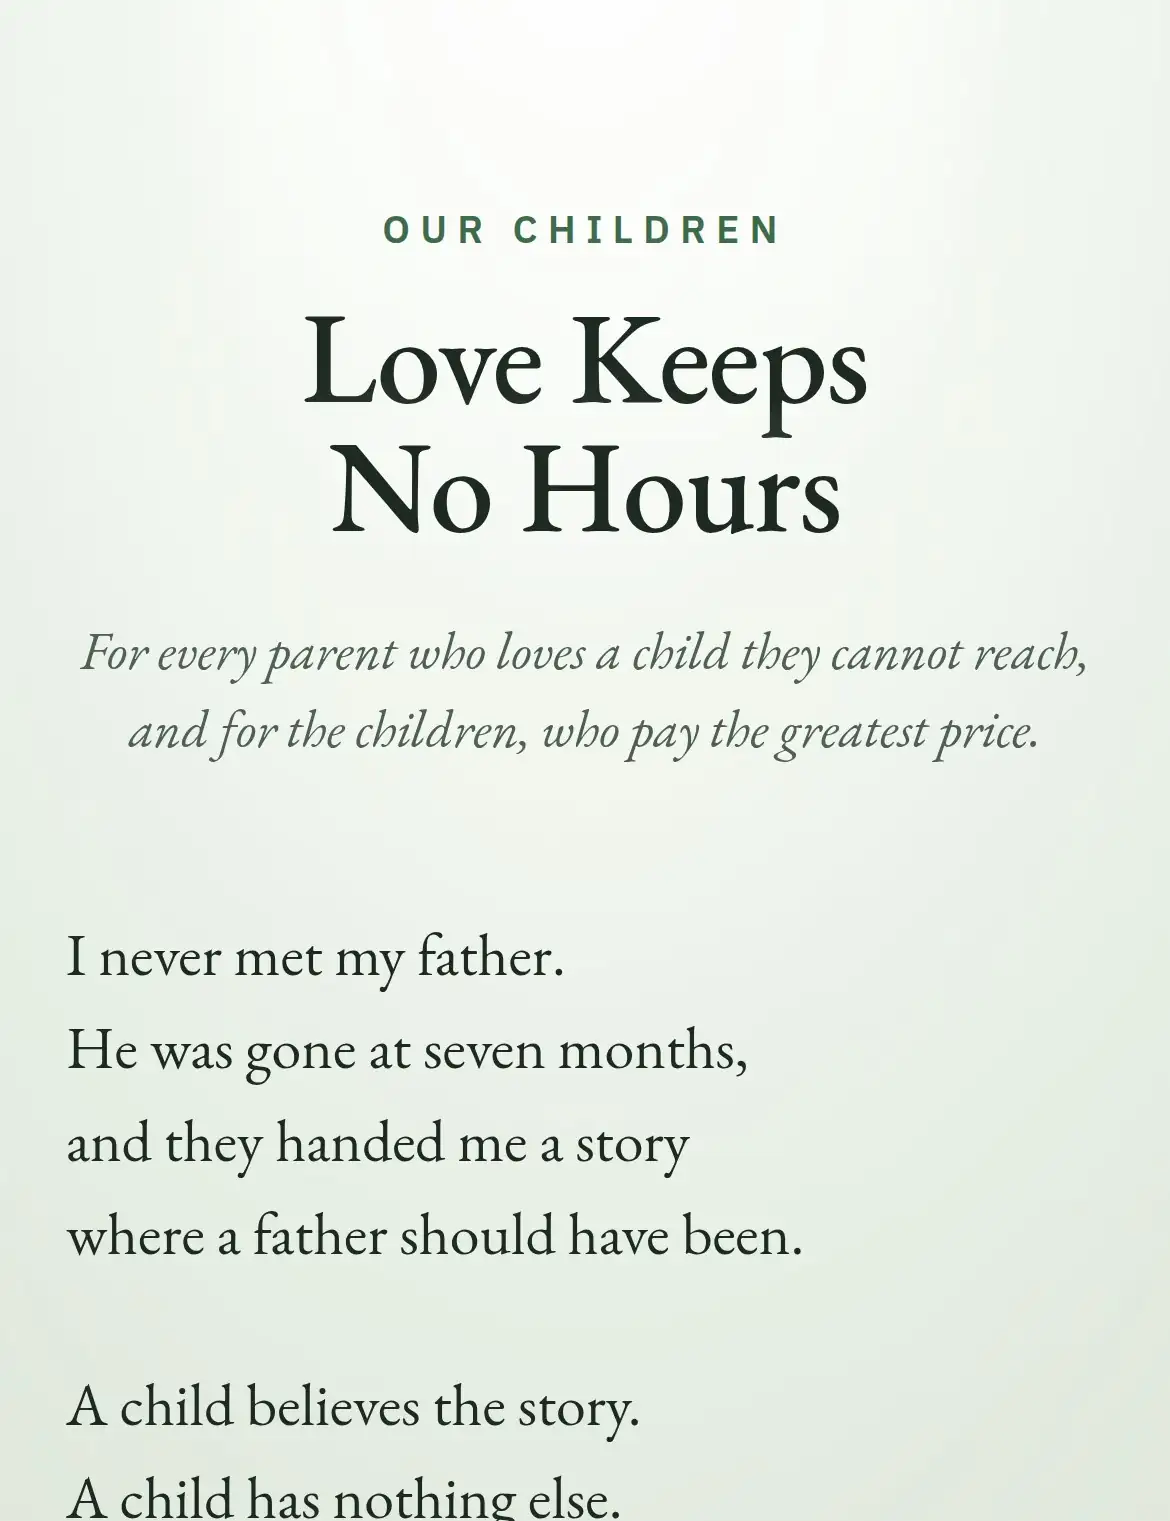
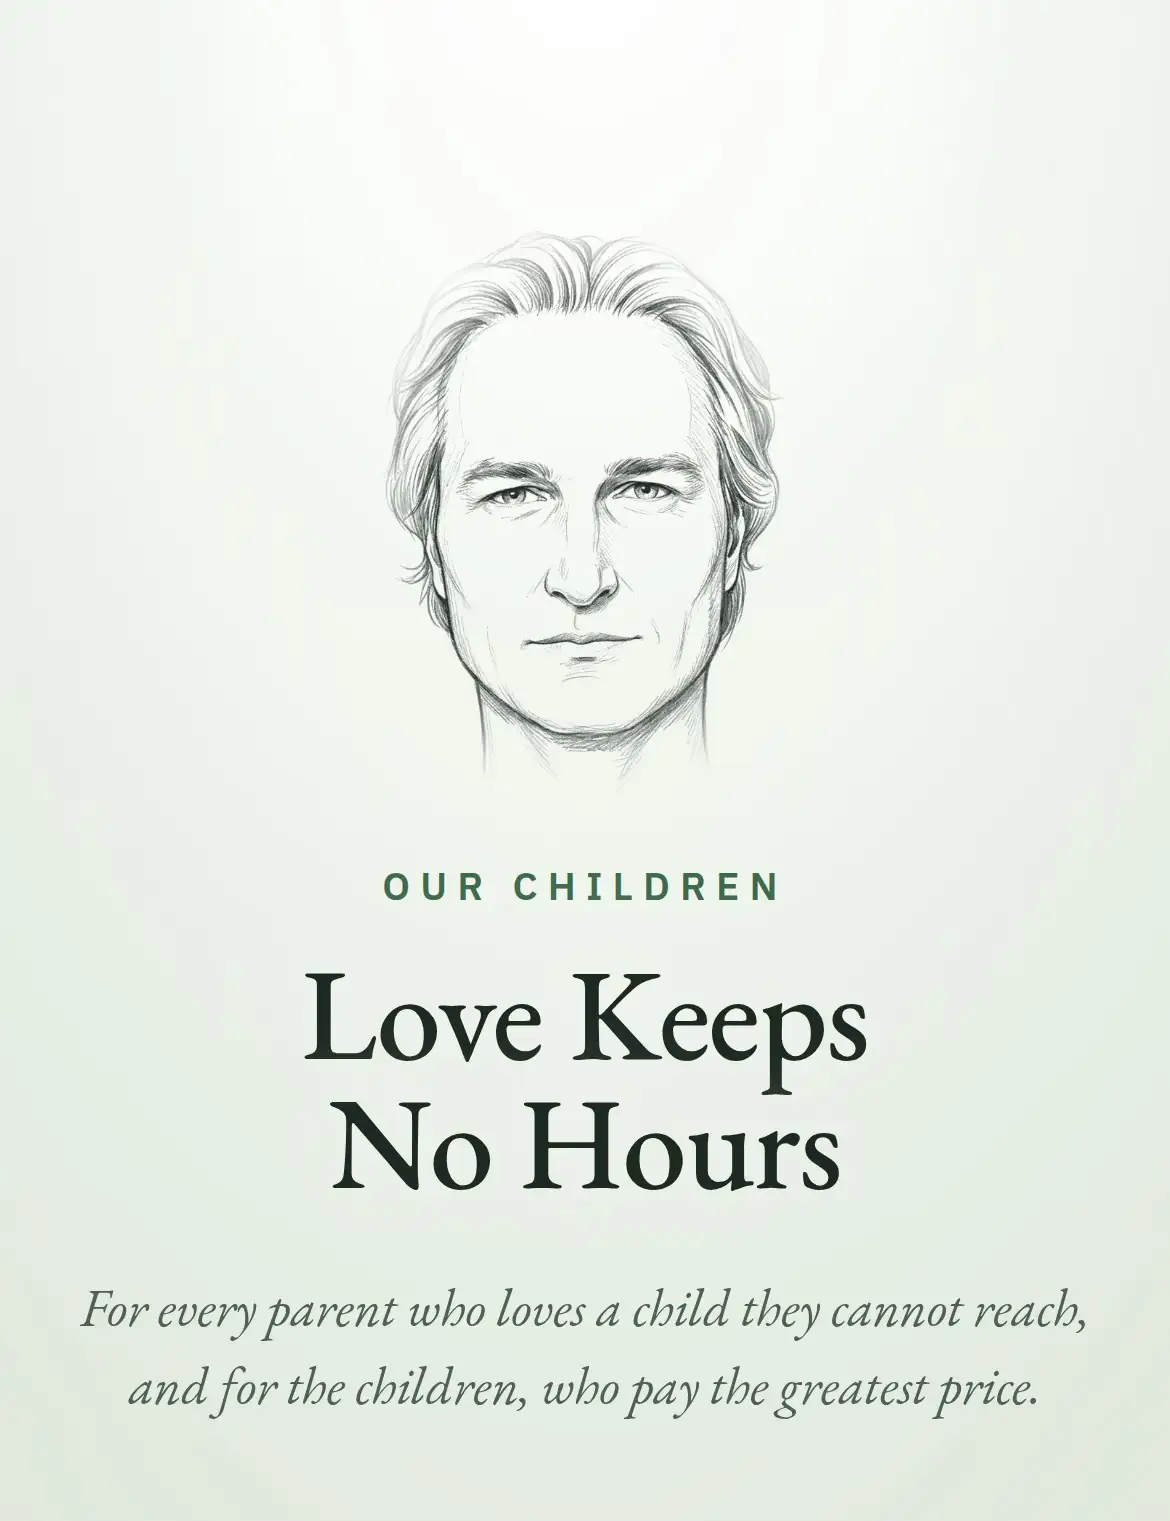
halseyminor.com: counts as of 2026-10-26

diff --git a/our-children/index.html b/our-children/index.html
@@ -69,6 +69,15 @@ a { color: var(--leaf); text-underline-offset: 3px; text-decoration-thickness: 1
   .poem > :nth-child(n+5) { animation-delay: .85s }
 }
 @keyframes oc-in { from { opacity: 0; transform: translateY(8px) } }
+.sign { width: clamp(180px, 20vw, 230px); margin: .4em 0 0 -.2em }
+.sign svg { display: block; width: 100%; height: auto; overflow: visible }
+.sign .sp { fill: none; stroke: #fff; stroke-width: 14; stroke-linecap: butt; stroke-linejoin: round; stroke-dasharray: 1 1; stroke-dashoffset: 1 }
+.sign.go .sp { stroke-dashoffset: 0; transition: stroke-dashoffset var(--t) cubic-bezier(.45, .05, .55, .95) var(--d) }
+.sign.wait image { mask: url(#sig-m) }
+.sign.done image { mask: none }
+.poem .face { width: clamp(150px, 17vw, 230px); margin: 0 auto clamp(12px, 2.2vh, 20px) }
+.poem .face img { display: block; width: 100%; height: auto;
+  -webkit-mask-image: radial-gradient(closest-side, #000 70%, transparent 100%); mask-image: radial-gradient(closest-side, #000 70%, transparent 100%) }
 </style>
 </head>
 <body>
@@ -79,6 +88,7 @@ a { color: var(--leaf); text-underline-offset: 3px; text-decoration-thickness: 1
 </nav>
 <main class="oc">
   <article class="poem" data-who="halsey" aria-labelledby="poem-h">
+    <div class="face"><img src="/our-children/halsey.webp" srcset="/our-children/halsey-sm.webp 320w, /our-children/halsey.webp 620w" sizes="(max-width: 599px) 150px, 230px" width="620" height="840" alt="Halsey Minor, drawn in pencil" decoding="async" fetchpriority="high"></div>
     <p class="kick">Our Children</p>
     <h1 id="poem-h">Love Keeps No Hours</h1>
     <p class="ded"><span>For every parent who loves a child they cannot reach,</span>
@@ -167,9 +177,23 @@ a { color: var(--leaf); text-underline-offset: 3px; text-decoration-thickness: 1
     <p class="st"><span>I am here.</span>
       <span>I am here.</span>
       <span>I am here.</span></p>
+    <div class="sign" role="img" aria-label="Halsey Minor’s signature" data-ms="2370"><svg viewBox="0 0 369 116" width="369" height="116" aria-hidden="true" focusable="false"><defs><mask id="sig-m" maskUnits="userSpaceOnUse" x="0" y="0" width="369" height="116"><path class="sp" pathLength="1" style="--d:0.00s;--t:0.23s" d="M10,95 L18,96 L19,97 L27,97 L37,94 L44,90 L49,89 L51,87 L54,82 L54,77 L61,57 L61,54 L63,50 L64,43 L68,31 L69,21 L71,18"/><path class="sp" pathLength="1" style="--d:0.29s;--t:0.12s" d="M14,97 L14,99 L28,110 L30,111 L37,111 L44,103 L48,95 L48,91 L49,90"/><path class="sp" pathLength="1" style="--d:0.47s;--t:0.33s" d="M54,83 L59,81 L64,76 L73,74 L75,72 L75,70 L83,60 L82,55 L96,28 L101,21 L110,12 L116,11 L117,13 L117,20 L111,33 L98,49 L86,60 L84,60 L85,59 L84,58"/><path class="sp" pathLength="1" style="--d:0.86s;--t:0.12s" d="M55,60 L58,46 L63,31 L66,24 L68,24"/><path class="sp" pathLength="1" style="--d:1.04s;--t:0.12s" d="M65,92 L68,89 L68,85 L71,80 L72,75"/><path class="sp" pathLength="1" style="--d:1.22s;--t:0.13s" d="M67,91 L68,92 L73,92 L78,94 L84,94 L85,93 L92,92 L116,81 L126,74"/><path class="sp" pathLength="1" style="--d:1.41s;--t:0.12s" d="M87,60 L97,50"/><path class="sp" pathLength="1" style="--d:1.59s;--t:0.12s" d="M162,68 L164,62 L171,53 L180,38 L182,37 L182,35 L186,34 L188,29"/><path class="sp" pathLength="1" style="--d:1.77s;--t:0.12s" d="M173,63 L174,61 L176,60 L176,54 L179,50 L185,36 L186,35 L186,36"/><path class="sp" pathLength="1" style="--d:1.95s;--t:0.36s" d="M177,57 L178,59 L180,59 L182,58 L187,52 L193,51 L197,55 L205,58 L222,58 L223,57 L230,57 L231,56 L242,55 L243,54 L257,52 L271,48 L275,48 L276,47 L280,47 L281,46 L285,46 L286,45 L290,45 L291,44 L295,44 L301,42 L306,42 L307,41 L313,41 L314,40 L320,40 L321,39 L329,39 L330,38 L340,38 L341,37 L355,37"/></mask></defs><image href="/our-children/signature.webp" x="0" y="0" width="369" height="116"/></svg></div>
     <p class="help">If you are a parent or a child who is hurting tonight, call or text <a href="tel:988">988</a>, any hour.</p>
   </article>
 </main>
+<script>
+(function () {
+  var s = document.querySelector('.sign');
+  if (!s || !('IntersectionObserver' in window) || (window.matchMedia && matchMedia('(prefers-reduced-motion: reduce)').matches)) return;
+  s.classList.add('wait');
+  var io = new IntersectionObserver(function (es) {
+    if (!es.some(function (e) { return e.isIntersecting; })) return;
+    io.disconnect(); s.classList.add('go');
+    setTimeout(function () { s.classList.add('done'); }, (+s.getAttribute('data-ms') || 2400) + 200);
+  }, { threshold: .6 });
+  io.observe(s);
+})();
+</script>
 
 </body>
 </html>
